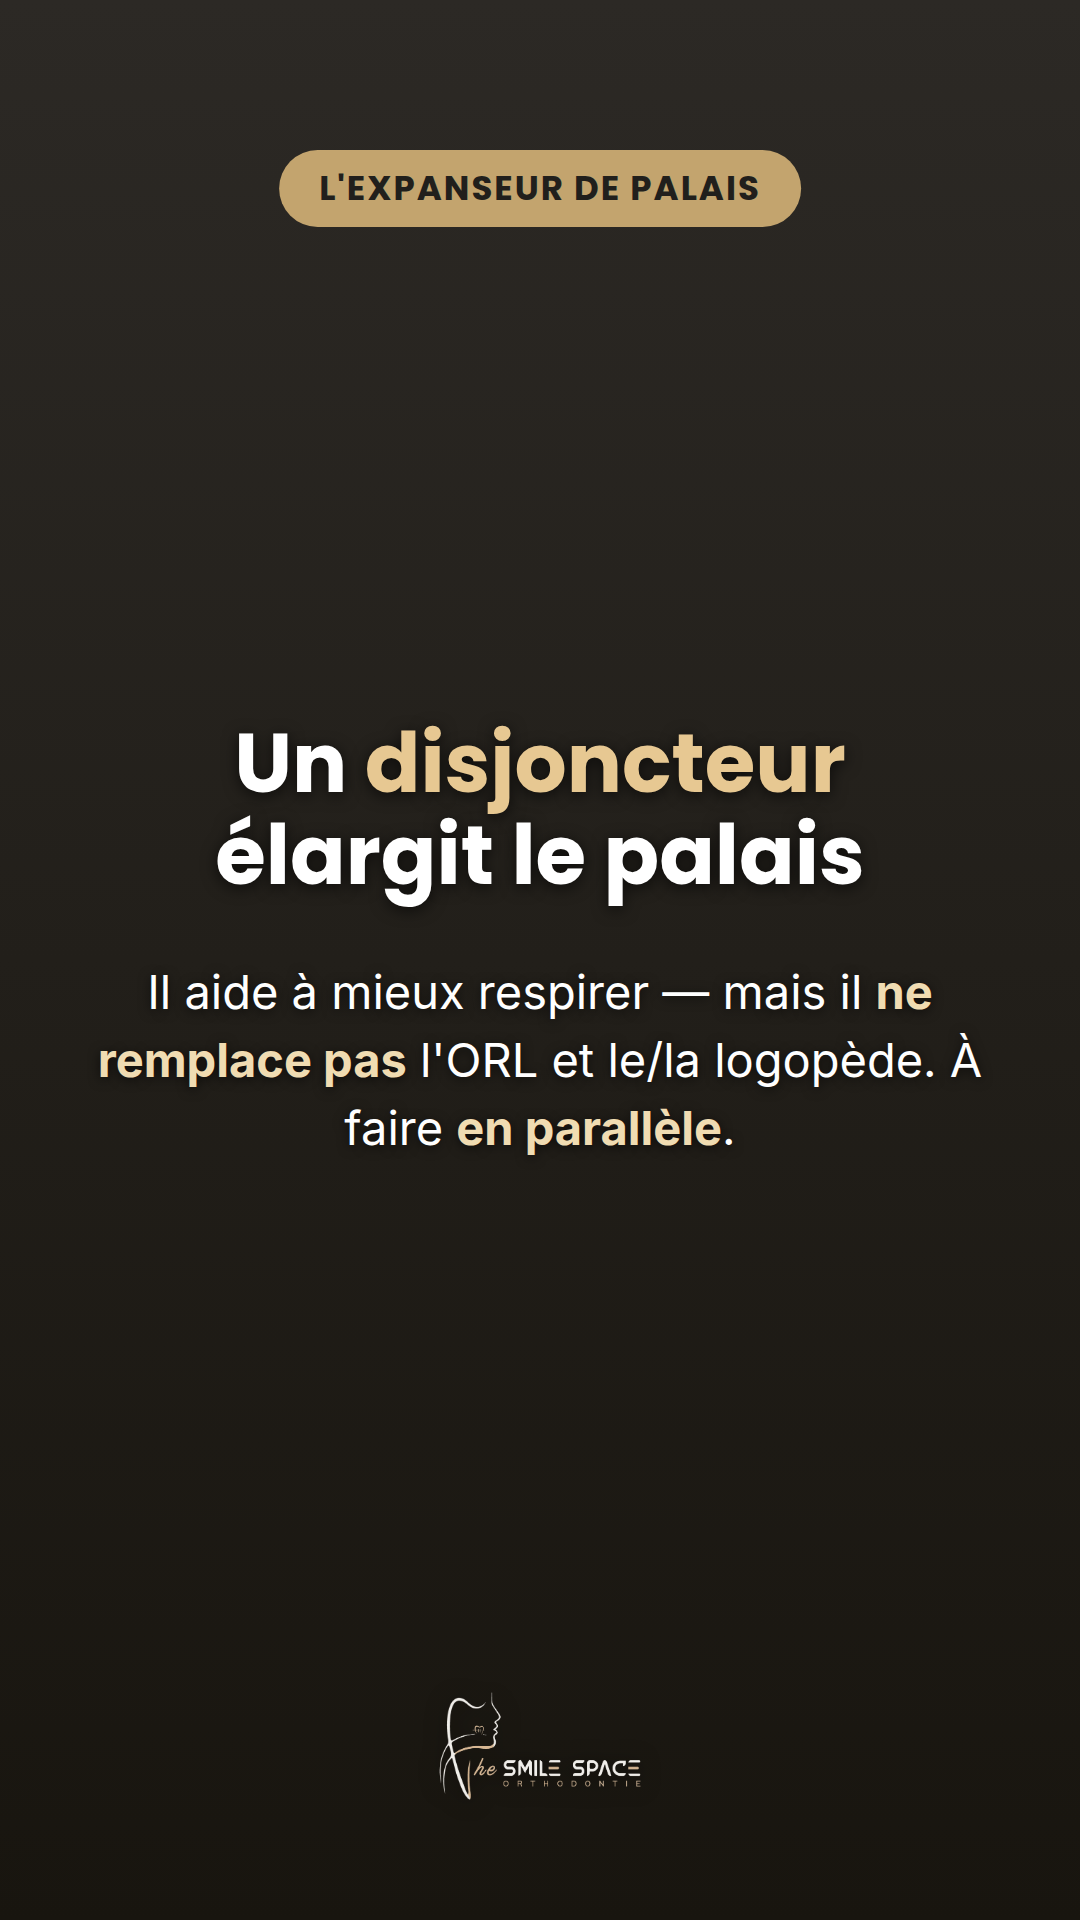
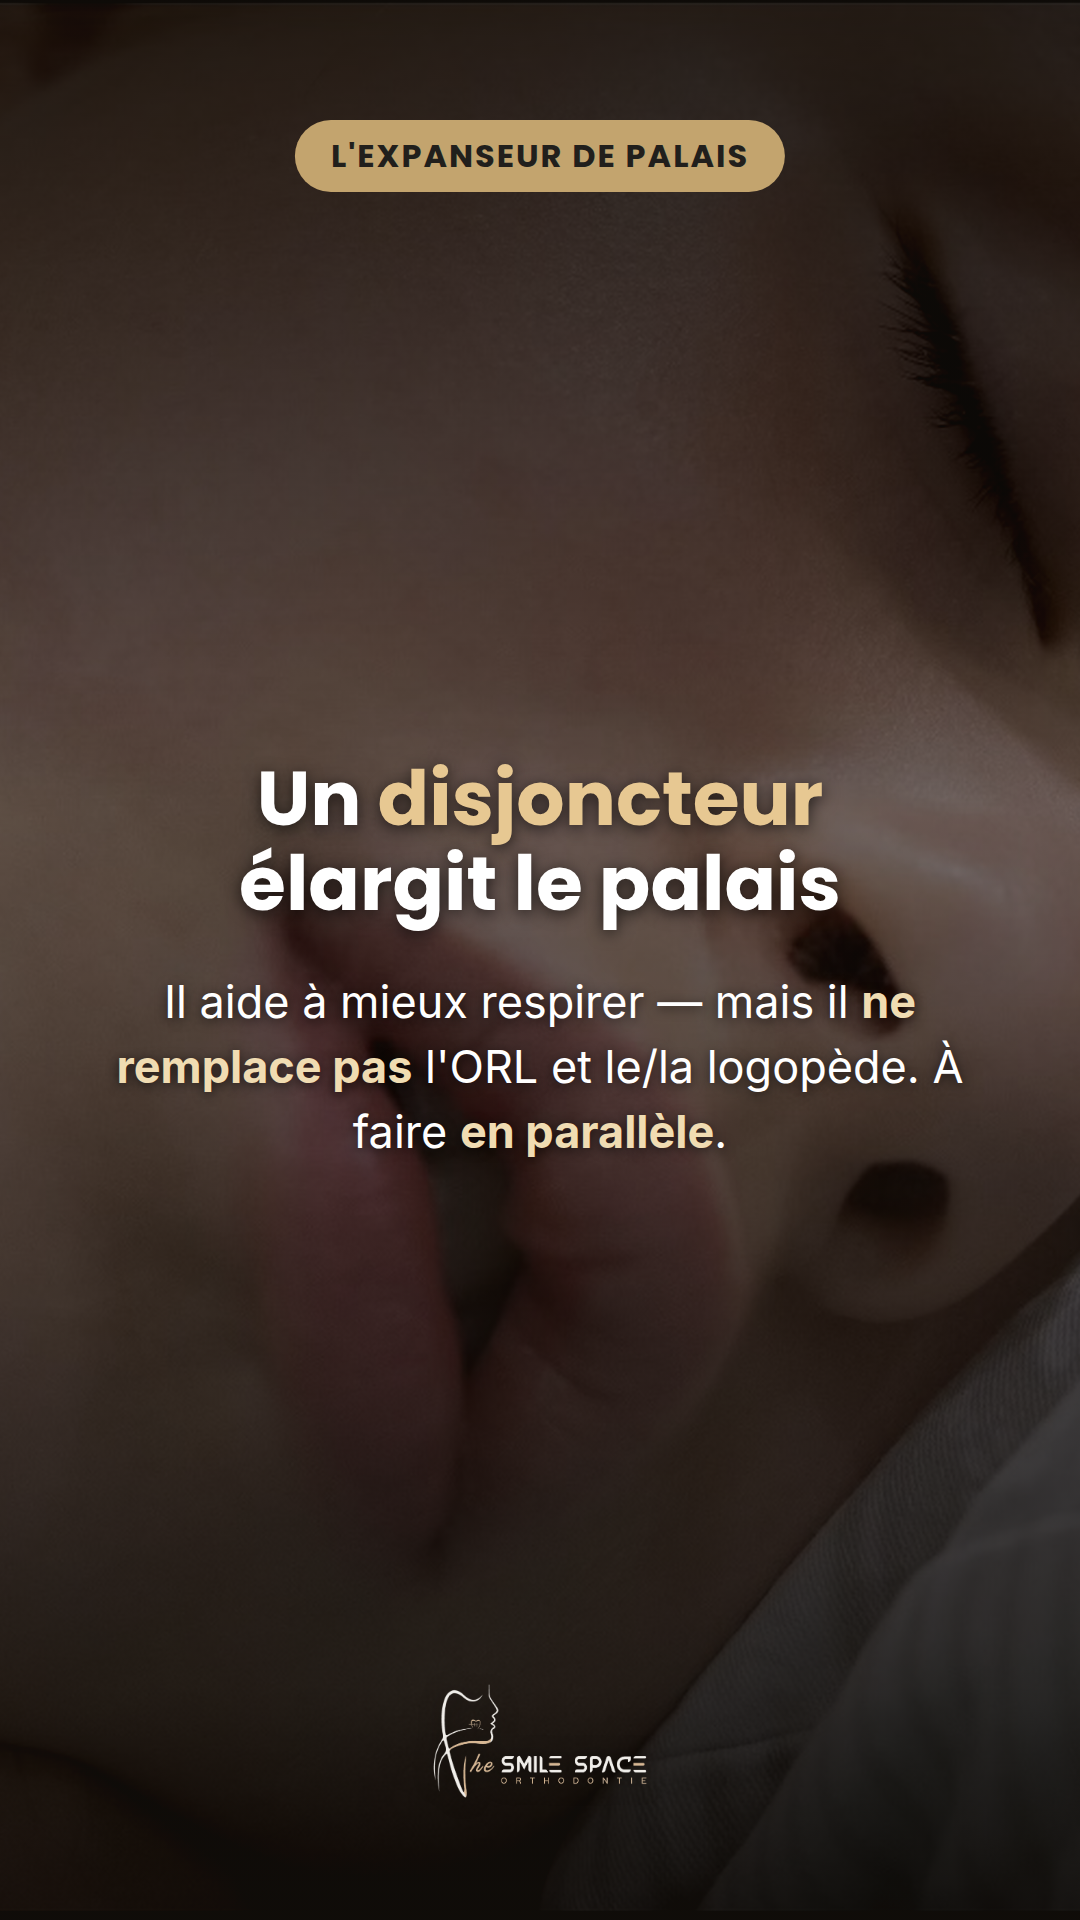
Story 3 respiration sans photo : fond photo assombri + voile (meme logique que les autres stories)
Claude-Session: https://claude.ai/code/session_014brP78CXMSfVZFDbExkY7E

diff --git a/quiz/_story3_nophoto.js b/quiz/_story3_nophoto.js
@@ -4,21 +4,23 @@ const ROOT=path.join(__dirname,"..");
 const EXEC="/opt/pw-browsers/chromium-1194/chrome-linux/chrome";
 const b64=(p,m)=>`data:${m};base64,`+fs.readFileSync(p).toString("base64");
 const fonts=fs.readFileSync(path.join(ROOT,"assets/fonts/fonts.css"),"utf8");
+const bg=b64(path.join(ROOT,"assets/quiz/respiration_fond.png"),"image/png");
 const logo=b64(path.join(ROOT,"assets/logo-light.png"),"image/png");
 const html=`<meta charset=utf-8><style>${fonts}
 *{margin:0;padding:0;box-sizing:border-box}
-.st{position:relative;width:1080px;height:1920px;overflow:hidden;font-family:"Inter",sans-serif;color:#fff;
- background:linear-gradient(180deg,#2C2925,#18150F)}
-.tag{position:absolute;top:150px;left:50%;transform:translateX(-50%);background:#C3A46E;color:#211F1C;font-family:"Poppins";font-weight:700;font-size:34px;letter-spacing:2px;padding:13px 40px;border-radius:999px;text-transform:uppercase;white-space:nowrap}
-.wrap{position:absolute;inset:0;top:-40px;display:flex;flex-direction:column;align-items:center;justify-content:center;text-align:center;padding:0 96px}
-.title{font-family:"Poppins";font-weight:700;font-size:82px;line-height:1.12;text-shadow:0 3px 16px #000a;margin-bottom:56px}
+.st{position:relative;width:1080px;height:1920px;overflow:hidden;font-family:"Inter",sans-serif;color:#fff}
+.bg{position:absolute;inset:0;background:url(${bg}) center/cover}
+.scrim{position:absolute;inset:0;background:linear-gradient(180deg,rgba(18,14,10,.78),rgba(18,14,10,.46) 42%,rgba(18,14,10,.86))}
+.tag{position:absolute;top:120px;left:50%;transform:translateX(-50%);background:#C3A46E;color:#211F1C;font-family:"Poppins";font-weight:700;font-size:32px;letter-spacing:2px;padding:12px 36px;border-radius:999px;text-transform:uppercase;white-space:nowrap}
+.wrap{position:absolute;inset:0;display:flex;flex-direction:column;align-items:center;justify-content:center;text-align:center;padding:0 96px}
+.title{font-family:"Poppins";font-weight:700;font-size:76px;line-height:1.12;text-shadow:0 3px 16px #000a;margin-bottom:44px}
 .title .hl{color:#E7C892}
-.bottom{font-size:47px;line-height:1.45;text-shadow:0 2px 12px #000a;max-width:900px}
+.bottom{font-size:45px;line-height:1.44;text-shadow:0 2px 12px #000a;max-width:900px}
 .bottom b{color:#F0DCB2}
-.foot{position:absolute;bottom:118px;left:0;right:0;display:flex;justify-content:center}
-.foot img{height:112px;filter:drop-shadow(0 2px 10px #0009)}
+.foot{position:absolute;bottom:120px;left:0;right:0;display:flex;justify-content:center}
+.foot img{height:118px;filter:drop-shadow(0 2px 10px #0009)}
 </style>
-<div class="st">
+<div class="st"><div class="bg"></div><div class="scrim"></div>
   <div class="tag">L'expanseur de palais</div>
   <div class="wrap">
     <div class="title">Un <span class="hl">disjoncteur</span><br>élargit le palais</div>
